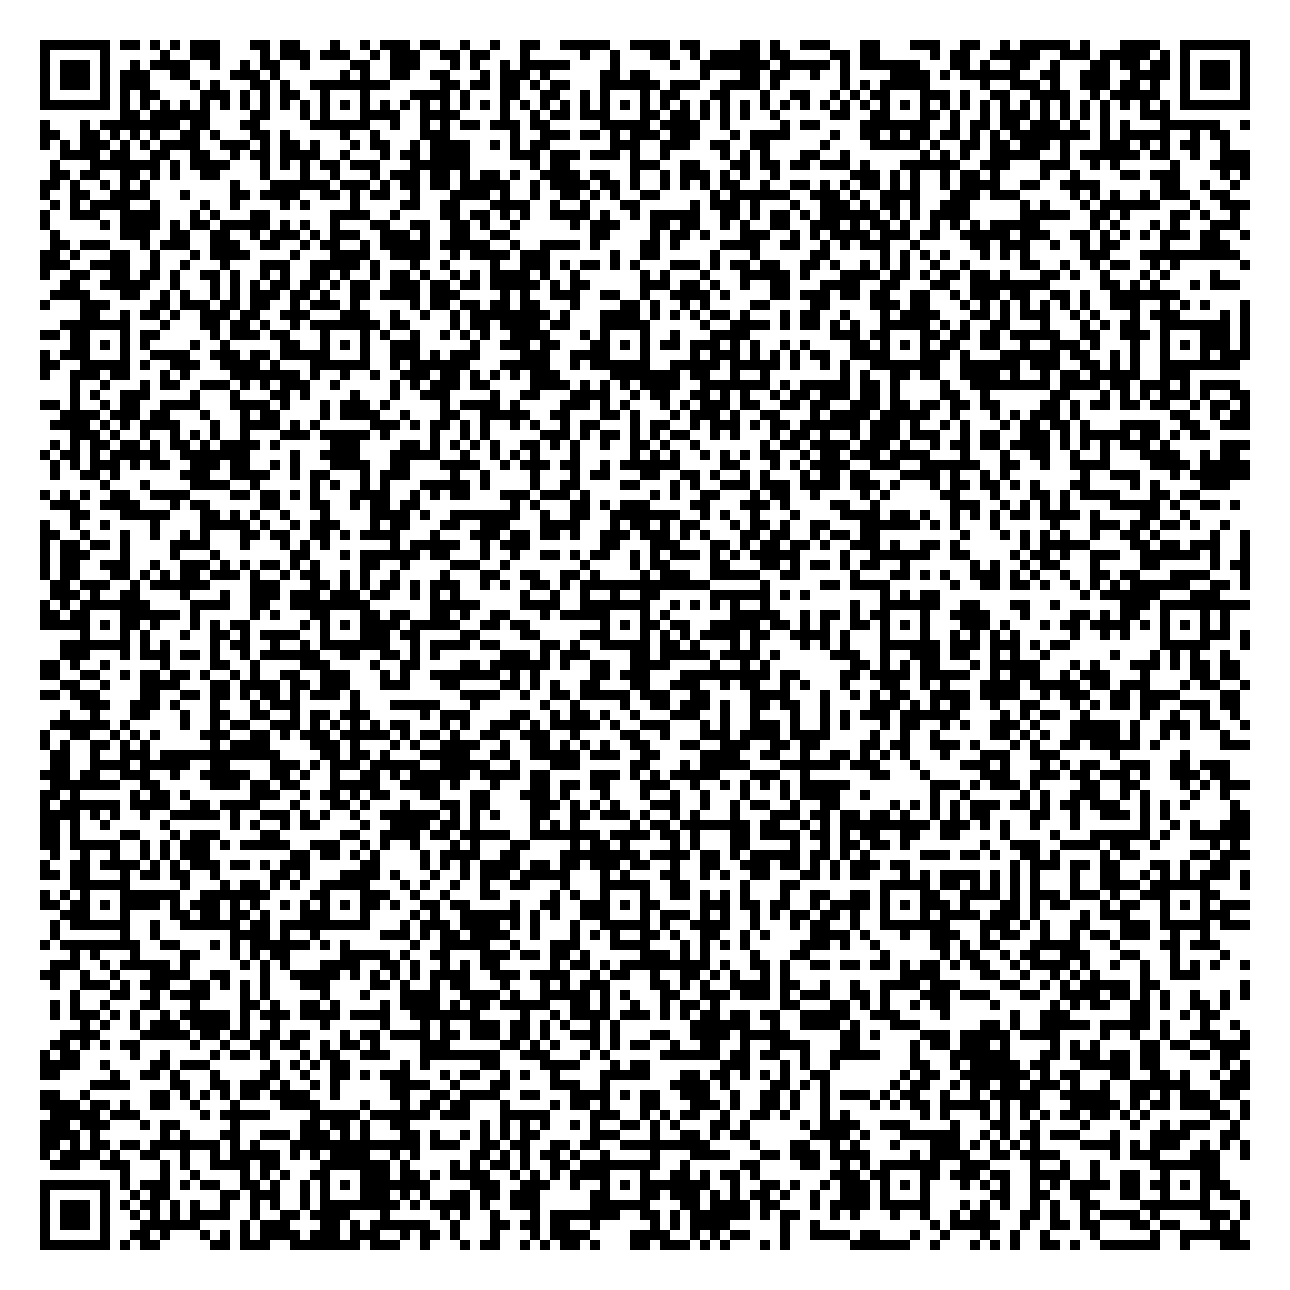
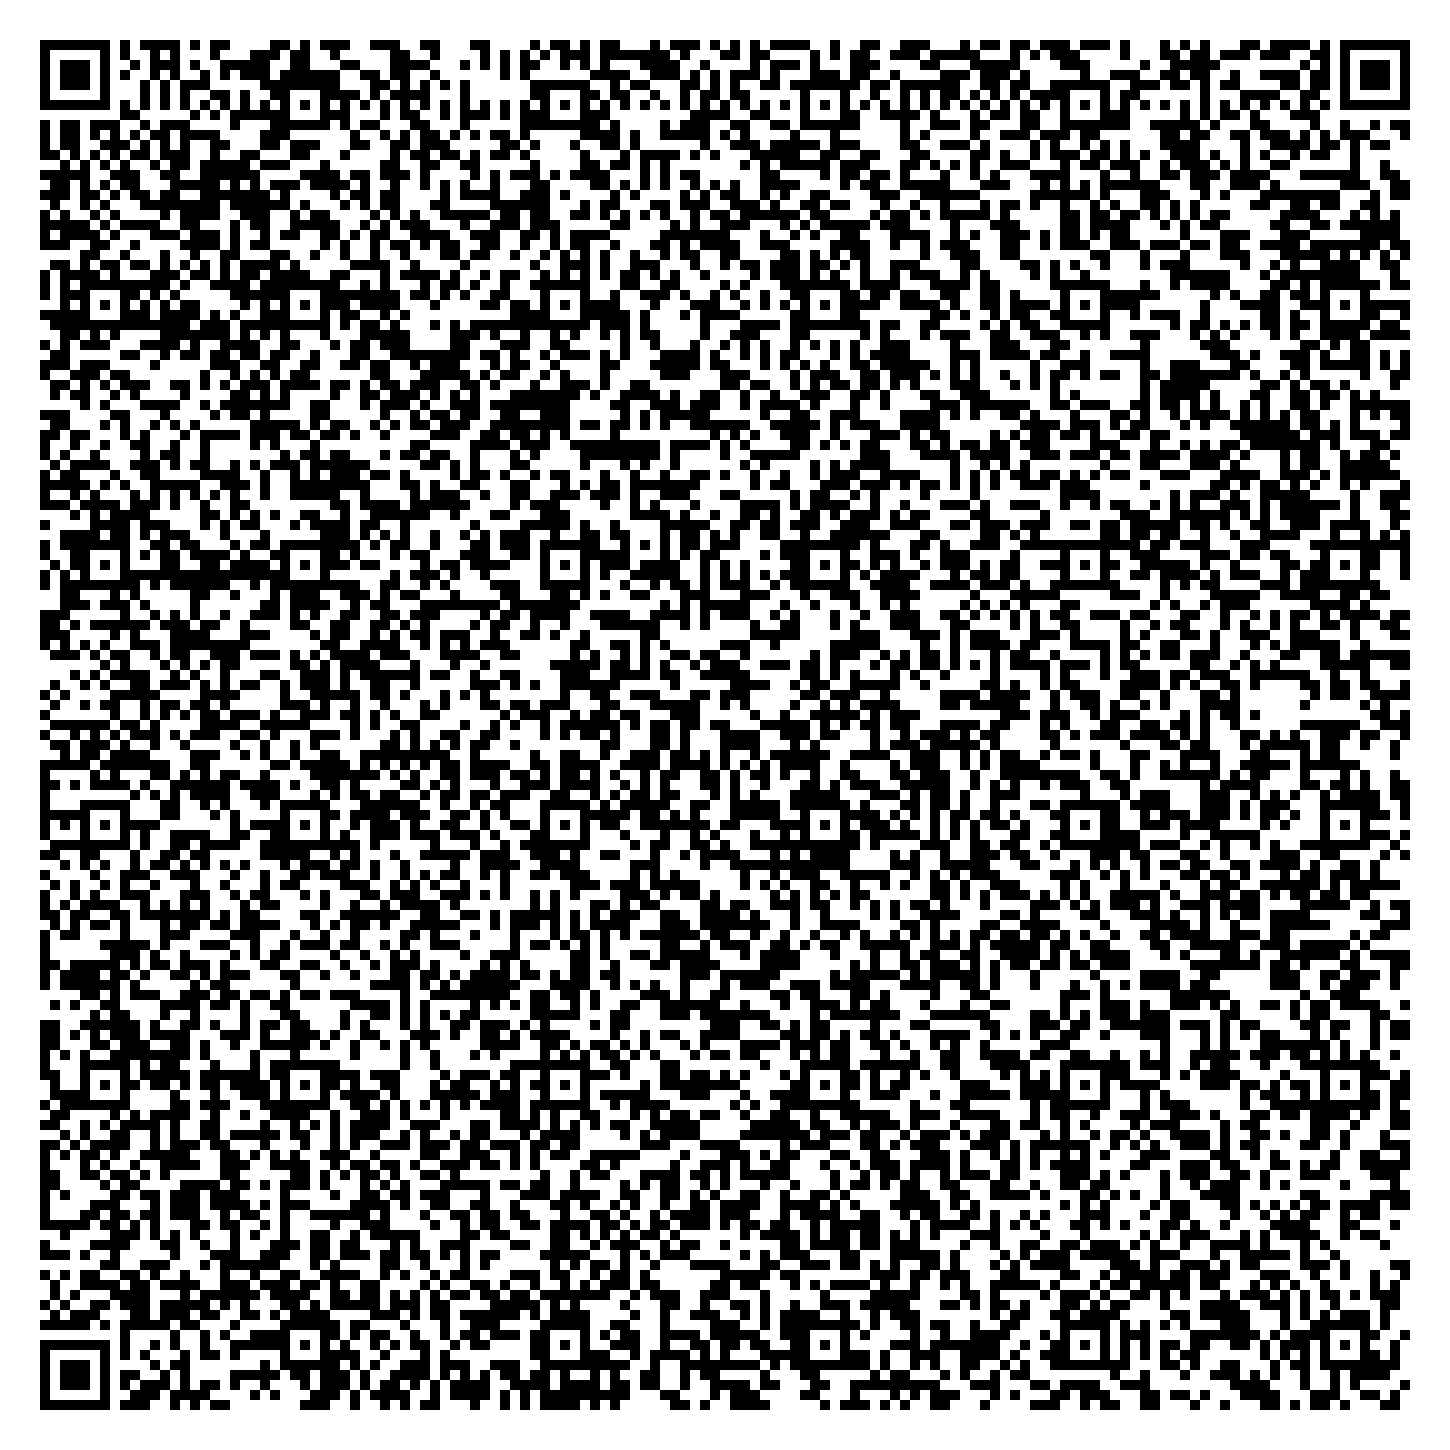
final version

diff --git a/blockchain_project/blockchain_project/blockchain.py b/blockchain_project/blockchain_project/blockchain.py
@@ -1,10 +1,6 @@
 import hashlib
 from time import time
 import json
-from unittest import result
-from matplotlib.font_manager import json_dump, json_load
-from numpy import block, empty
-import json
 import rsa
 import os.path
 
@@ -57,13 +53,20 @@ class blockchain(object):
         return hex_hash
 
 
+# add new transaction block to product blockchain
 def addition_chain(sender, recevier, proof, product):
+    name_list = []
+
     with open(
         r".\blockchain_project\blockchain_project\login\username.txt", "r"
     ) as usernames:
-        if sender not in usernames:
+        for name in usernames.readlines():
+            name = name.strip()
+            name_list.append(name)
+
+        if sender not in name_list:
             return "No such sender"
-        if recevier not in usernames:
+        if recevier not in name_list:
             return "No such receiver"
 
     if product == 1:
@@ -91,14 +94,11 @@ def addition_chain(sender, recevier, proof, product):
     return "Successfully added transaction in blockchain"
 
 
+# decryption the content of QRcode and check whether is fake or not
 def identify_product(product_chain_RSA):
-
-    try:
-        product_chain = RSA_decryption(product_chain_RSA)
-        if product_chain == False:
-            return "Incorrect Key"
-    except:
-        return "not be able to identify."
+    product_chain = RSA_decryption(product_chain_RSA)
+    if product_chain == False:
+        return "Incorrect Key"
 
     product = product_chain[1]["trainsactions"][0]["Product"]
     real_chain = []
@@ -121,7 +121,7 @@ def identify_product(product_chain_RSA):
 
 # -------------------------------------------------------------------
 
-
+# generate RSA KEY
 def Gen_key():
     (public_key, private_key) = rsa.newkeys(8000)
     with open(
@@ -134,6 +134,7 @@ def Gen_key():
         key.write(private_key.save_pkcs1("PEM"))
 
 
+# RSA encryption
 def RSA_encryption(txt):
     (public_key, private_key) = get_keys()
     txt = json.dumps(json.dumps(txt))
@@ -141,9 +142,11 @@ def RSA_encryption(txt):
     return result
 
 
+# RSA decryption
 def RSA_decryption(RSA_content):
+
+    (public_key, private_key) = get_keys()
     try:
-        (public_key, private_key) = get_keys()
         result = rsa.decrypt(RSA_content, private_key).decode("ascii")
         result = json.loads(json.loads(result))
         return result
@@ -151,6 +154,7 @@ def RSA_decryption(RSA_content):
         return False
 
 
+# get key from folder
 def get_keys():
     with open(
         r".\blockchain_project\blockchain_project\key\publicKey.pem", "rb"
@@ -170,6 +174,8 @@ if (
     Gen_key()
 
 # ---------------------------------------------------------------------------------
+
+# create default block in the beginning
 blockchain_Apple = blockchain()
 blockchain_Melon = blockchain()
 blockchain_Stawberry = blockchain()
@@ -189,9 +195,6 @@ with open(
 
     t2 = blockchain_Apple.new_transaction("Mike", "Satoshi", "Apple")
     blockchain_Apple.CreateBlock(56867)
-
-    # t3 = blockchain_Apple.new_transaction("Satoshi", "Hal Finney", "Apple")
-    # blockchain_Apple.CreateBlock(54245)
 
 with open(
     r".\blockchain_project\blockchain_project\Chain_data\Apple.json", "w"
@@ -213,8 +216,6 @@ with open(
     blockchain_Melon.CreateBlock(53463463)
     t5 = blockchain_Melon.new_transaction("Satoshi", "Mike", "Melon")
     blockchain_Melon.CreateBlock(6763463489)
-    # t6 = blockchain_Melon.new_transaction("Satoshi", "Alice", "Melon")
-    # blockchain_Melon.CreateBlock(6764363489)
 
 with open(
     r".\blockchain_project\blockchain_project\Chain_data\Melon.json", "w"
@@ -235,8 +236,6 @@ with open(
     blockchain_Stawberry.CreateBlock(6789)
     t8 = blockchain_Stawberry.new_transaction("Alice", "Bob", "Stawberry")
     blockchain_Stawberry.CreateBlock(13515515)
-    # t9 = blockchain_Stawberry.new_transaction("Alice", "Mike", "Stawberry")
-    # blockchain_Stawberry.CreateBlock(6789)
 
 with open(
     r".\blockchain_project\blockchain_project\Chain_data\Stawberry.json", "w"

diff --git a/blockchain_project/blockchain_project/qr_code.py b/blockchain_project/blockchain_project/qr_code.py
@@ -1,50 +1,26 @@
-from cgitb import grey
 import cv2
-from matplotlib import image
-import numpy as np
 import pyzbar.pyzbar as pyzbar
-import imutils
 import qrcode
-from PIL import Image
 import os
 from tkinter import messagebox
+import base64
 
-
+# decode QR code image
 def qr_code_decoder(img_path):
     img = cv2.imread(img_path)
-    grey_img = cv2.cvtColor(img, cv2.COLOR_BGR2GRAY)
-    decode_img = pyzbar.decode(grey_img)
-    for text in decode_img:
-        print(text)
+    decode_img = pyzbar.decode(img)
 
-        (x, y, w, h) = text.rect
-        draw_rectangle(x, y, w, h, img)
+    for text in decode_img:
 
         if text != []:
-            return text.data.decode("utf-8")
+            return base64.b64decode(text.data)
         else:
             return False
 
 
-def draw_rectangle(x, y, w, h, img):
-
-    cv2.rectangle(img, (x, y), (x + w, y + h), (255, 0, 0), 1)
-    cv2.imshow("Image", img)
-    cv2.waitKey(0)
-    cv2.destroyAllWindows()
-
-
-# for testing photo recognizebitily, feel free to change angle to test.
-def rotate_img(img_path):
-    img = cv2.imread(img_path)
-    rotated_img = imutils.rotate_bound(img, angle=30)
-    cv2.imshow("hah", rotated_img)
-    cv2.waitKey(0)
-
-
 # txt is qr code content, string type and it will save as image, feel free to change name in img.save("")
 def generate_QRcode(txt):
-
+    txt = base64.b64encode(txt)
     img = qrcode.make(txt)
     img.save(r"blockchain_project\blockchain_project\images\product_qr_code.jpg")
     image = cv2.imread(
@@ -65,9 +41,3 @@ def identify_hash(provided_chain, chain_in_product):
         if z == len(provided_chain):
             break
     return True
-
-
-# print(qr_code_decoder(r".\test.png"))
-# rotate_img(r".\abc.png")
-# cv2.imshow("QR", generate_QRcode("this is me"))
-# generate_QRcode("this is me")

diff --git a/blockchain_project/blockchain_project/system.py b/blockchain_project/blockchain_project/system.py
@@ -1,9 +1,7 @@
-import getpass
 from tkinter import *
 from tkinter import messagebox
 from tkinter import filedialog
-from tkinter.filedialog import askopenfile
-from PIL import Image, ImageTk
+from PIL import ImageTk
 import qr_code as qrCode
 import blockchain as bChain
 import os
@@ -153,7 +151,7 @@ def option():
 
 def addrecord(sender, receiver, Proof, code):
     result = bChain.addition_chain(sender, receiver, Proof, code)
-    print(result)
+    messagebox.showinfo("Add transaction record", result)
 
 
 def add():
@@ -180,7 +178,7 @@ def add():
     e21 = Entry(div2, bg="white", fg="black")
     l22 = Label(div2, text="Reciever: ", bg="white", fg="black")
     e22 = Entry(div2, bg="white", fg="black")
-    l23 = Label(div2, text="Number of item: ", bg="white", fg="black")
+    l23 = Label(div2, text="Proof: ", bg="white", fg="black")
     e23 = Entry(div2, bg="white", fg="black")
     l24 = Label(div2, text="Please choose a product: ", bg="white", fg="black")
     bt1 = Button(
